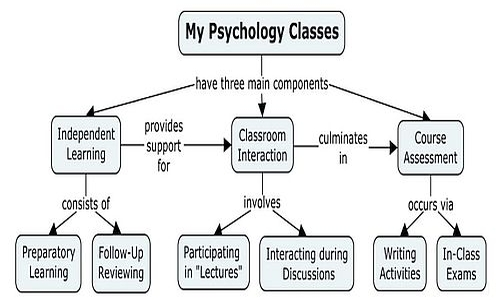
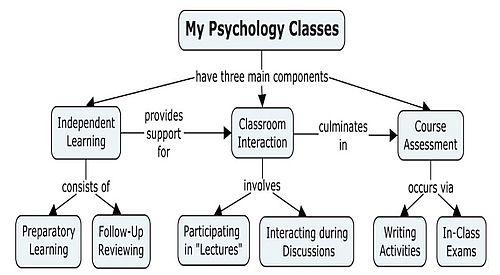
Revert "Updated images"
This reverts commit f162a9befd405674600cb100884cc4db04427a3c.

diff --git a/_layouts/default.html b/_layouts/default.html
@@ -47,10 +47,12 @@
 
       @media (max-width: 700px) {
         div#nav {display: none;}
+        div#repository {display: none;}
         #menuButton {display: block;}
       }
       @media (min-width: 701px) {
         div#nav {display: block;}
+        div#repository {display: block;}
         #menuButton {display: none;}
       }
       
